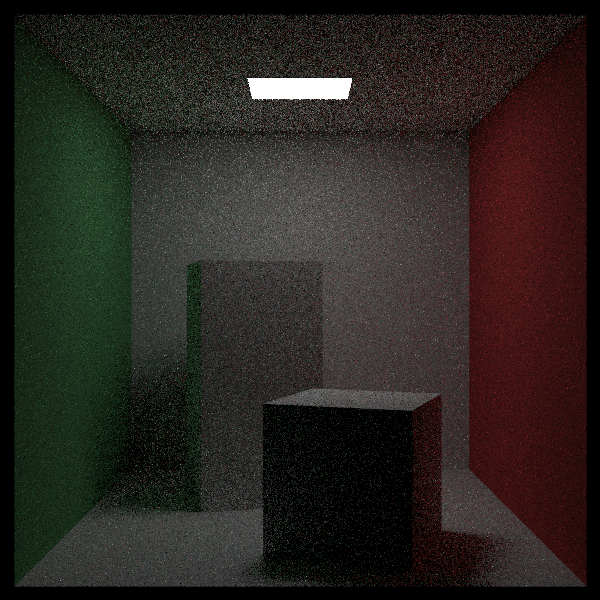
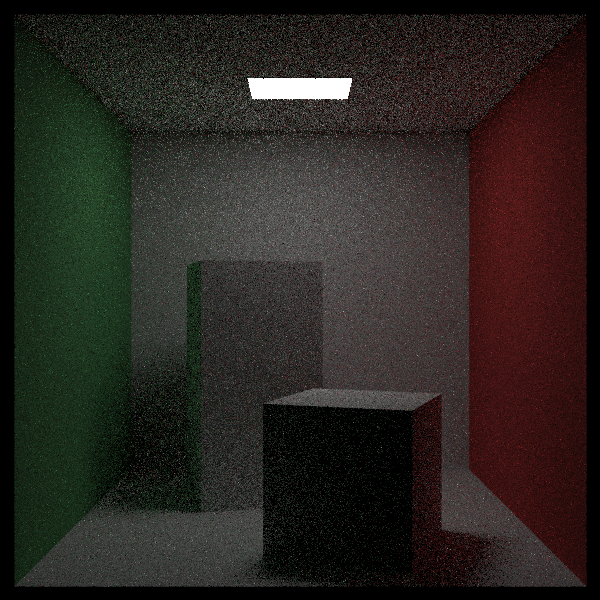
started to refactor the pdf and the materials

diff --git a/src/materials.rs b/src/materials.rs
@@ -1,5 +1,6 @@
 use std::f64::consts::PI;
 
+use crate::pdf::{Pdf, CosinePDF};
 use crate::{color::Color, onb::Onb};
 use crate::elements::HitRecord;
 use crate::ray::Ray;
@@ -16,10 +17,21 @@ pub enum Material {
     DiffuseLight(DiffuseLight),
 }
 
+//need to specify lifetime for the pdf, as there might be a mixed pdf in there with a reference to other pdfs
+pub struct ScatterRecord<'a> {
+    pub attenuation: Color,
+    pub pdf: Pdf<'a>,
+}
+
+pub struct ReflectRecord {
+    reflected: Vec3,
+    ray: Ray,
+}
+
 // trait for a material that scatters
 pub trait Scatterable {
-    fn scatter(&self, ray: &Ray, hit_record: &HitRecord, rng: &mut impl Rng) -> Option<(Option<Ray>, Option<f64>, Color)>;
-    fn scattering_pdf(&self, ray: &Ray, hit_record: &HitRecord, scattered_ray: &Ray) -> f64;
+    fn scatter(&self, ray: &Ray, hit_record: &HitRecord, rng: &mut impl Rng) -> Option<ScatterRecord>;
+    //fn scattering_pdf(&self, ray: &Ray, hit_record: &HitRecord, scattered_ray: &Ray) -> f64;
 }
 
 pub trait Emmits {
@@ -29,23 +41,21 @@ pub trait Emmits {
 // link the trait implementation to the materials
 // we now assume every material scatters, so each material needs a scatter function
 impl Scatterable for Material {
-    fn scatter(&self, ray: &Ray, hit_record: &HitRecord, rng: &mut impl Rng) -> Option<(Option<Ray>, Option<f64>, Color)> {
+    fn scatter(&self, ray: &Ray, hit_record: &HitRecord, rng: &mut impl Rng) -> Option<ScatterRecord> {
         match self {
             Material::Lambertian(l) => l.scatter(ray, hit_record, rng),
-            Material::Metal(m) => m.scatter(ray, hit_record, rng),
-            Material::Dielectric(d) => d.scatter(ray, hit_record, rng),
             _ =>  None,
         }
     }
 
-    fn scattering_pdf(&self, ray: &Ray, hit_record: &HitRecord, scattered_ray: &Ray) -> f64 {
-        match self {
-            Material::Lambertian(l) => l.scattering_pdf(ray, hit_record, scattered_ray),
-            Material::Metal(m) => m.scattering_pdf(ray, hit_record, scattered_ray),
-            Material::Dielectric(d) => d.scattering_pdf(ray, hit_record, scattered_ray),
-            _ =>  1.0,
-        }
-    }
+//    fn scattering_pdf(&self, ray: &Ray, hit_record: &HitRecord, scattered_ray: &Ray) -> f64 {
+//        match self {
+//            Material::Lambertian(l) => l.scattering_pdf(ray, hit_record, scattered_ray),
+//            Material::Metal(m) => m.scattering_pdf(ray, hit_record, scattered_ray),
+//            Material::Dielectric(d) => d.scattering_pdf(ray, hit_record, scattered_ray),
+//            _ =>  1.0,
+//        }
+//    }
 }
 
 impl Emmits for Material {
@@ -96,23 +106,22 @@ impl Lambertian {
 
 impl Scatterable for Lambertian {
     // create a scattered ray, randomized but with a lambartian distribution around the normal
-    fn scatter(&self, _ray: &Ray, hit_record: &HitRecord, rng: &mut impl Rng) -> Option<(Option<Ray>, Option<f64>, Color)> {
-        //lambertian distribution, assume the normal is normalized
+    fn scatter(&self, _ray: &Ray, hit_record: &HitRecord, rng: &mut impl Rng) -> Option<ScatterRecord> {
+        //lambertian pdf
 
-        let uvw: Onb = Onb::build_from_w(hit_record.normal);
-        let scatter_direction: Vec3 = uvw.local_vec(Vec3::random_cosine_direction(rng));
+        let scatter: ScatterRecord = ScatterRecord { 
+            attenuation: self.albedo, 
+            pdf: Pdf::CosinePDF(CosinePDF::new(hit_record.normal)) 
+        };
 
-        // create the new ray
-        let scattered = Ray::new(hit_record.point, scatter_direction);
-        let pdf: f64 = uvw.w().dot(&scattered.direction) / PI;
-
-        Some((Some(scattered), Some(pdf), self.albedo))
+        Some(scatter)
     }
 
-    fn scattering_pdf(&self, _ray: &Ray, hit_record: &HitRecord, scattered_ray: &Ray) -> f64 {
-        let cos_theta = hit_record.normal.dot(&scattered_ray.direction);
-        if cos_theta < 0.0 { 0.0 } else { cos_theta / PI }
-    }
+    // can we take this out?
+   // fn scattering_pdf(&self, _ray: &Ray, hit_record: &HitRecord, scattered_ray: &Ray) -> f64 {
+   //     let cos_theta = hit_record.normal.dot(&scattered_ray.direction);
+   //     if cos_theta < 0.0 { 0.0 } else { cos_theta / PI }
+   // }
 }
 
 // Metal material, with a fuzz factor. Metal reflects all rays in a predictable way (normal reflection)
@@ -135,24 +144,20 @@ fn reflect(v: &Vec3, n: &Vec3) -> Vec3 {
 
 impl Scatterable for Metal {
     // create a reflected ray
-    fn scatter(&self, ray: &Ray, hit_record: &HitRecord, rng: &mut impl Rng) -> Option<(Option<Ray>, Option<f64>, Color)> {
-        // get the direction of the reflected ray, and add a fuzz factor * a random unit vector
-        let new_direction = reflect(&ray.direction.normalized(), &hit_record.normal)
-            + Vec3::new_random_unit_vector(rng) * self.fuzz;
+    fn scatter(&self, ray: &Ray, hit_record: &HitRecord, rng: &mut impl Rng) -> Option<ScatterRecord> {
+            // get the direction of the reflected ray, and add a fuzz factor * a random unit vector
+          //  let new_direction = reflect(&ray.direction.normalized(), &hit_record.normal)
+          //      + Vec3::new_random_unit_vector(rng) * self.fuzz;
 
-        if hit_record.normal.dot(&new_direction) > 0.0 {
-            // the reflected ray, including fuzz unit sphere, is outside the material, so return a reflected ray
-            let reflected = Ray::new(hit_record.point, new_direction);
-            Some((Some(reflected), Some(1.0), self.albedo))
-        } else {
-            // return no ray, as the ray is absorbed by the material (due to fuzz factor)
-            Some((None, None, self.albedo))
-        }
-    }
-
-    fn scattering_pdf(&self, _ray: &Ray, hit_record: &HitRecord, scattered_ray: &Ray) -> f64 {
-        let cos_theta = hit_record.normal.dot(&scattered_ray.direction);
-        if cos_theta < 0.0 { 0.0 } else { cos_theta / PI }
+        //    if hit_record.normal.dot(&new_direction) > 0.0 {
+                // the reflected ray, including fuzz unit sphere, is outside the material, so return a reflected ray
+         //       let reflected = Ray::new(hit_record.point, new_direction);
+         //       Some((Some(reflected), Some(1.0), self.albedo))
+        //    } else {
+                // return no ray, as the ray is absorbed by the material (due to fuzz factor)
+        //        Some((None, None, self.albedo))
+        //    }
+        None
     }
 }
 
@@ -191,8 +196,9 @@ impl Dielectric {
 
 // source: Ray tracing in one Weekend
 impl Scatterable for Dielectric {
-    fn scatter(&self, ray: &Ray, hit_record: &HitRecord, rng: &mut impl Rng) -> Option<(Option<Ray>, Option<f64>, Color)> {
+    fn scatter(&self, ray: &Ray, hit_record: &HitRecord, rng: &mut impl Rng) -> Option<ScatterRecord> {
         //let mut rng = rand::thread_rng();
+        /* 
         let albedo: Color = Color::new(1.0, 1.0, 1.0); // a glass material does not absorb any color/light so the albedo is 1.0
         let refraction_ratio: f64 = if hit_record.front_face { 1.0 / self.index_of_refraction } else { self.index_of_refraction };
         let unit_direction: Vec3 = ray.direction.normalized(); // this should already be normalized, so we could remove this .normalize
@@ -212,11 +218,8 @@ impl Scatterable for Dielectric {
             let refracted_ray: Ray = Ray::new(hit_record.point, direction);
             Some((Some(refracted_ray), Some(1.0), albedo))
         }
-    }
-
-    fn scattering_pdf(&self, _ray: &Ray, hit_record: &HitRecord, scattered_ray: &Ray) -> f64 {
-        let cos_theta = hit_record.normal.dot(&scattered_ray.direction);
-        if cos_theta < 0.0 { 0.0 } else { cos_theta / PI }
+        */
+        None
     }
     
 }

diff --git a/src/lib.rs b/src/lib.rs
@@ -119,7 +119,7 @@ pub fn render_line(
 ) {
     let mut rng: SmallRng = SmallRng::seed_from_u64(y as u64);
 
-    for x in 0..config.img_width as usize {
+    for (x, band_item) in band.iter_mut().enumerate().take(config.img_width as usize) {
         // start with black color
         let mut color: Color = Color::new(0.0, 0.0, 0.0);
 
@@ -142,7 +142,7 @@ pub fn render_line(
         }
 
         // set pixel color, but first divide by the number of samples to get the average and return
-        band[x] = color
+        *band_item = color
             .divide_by_samples(config.samples)
             .clamp()
             .linear_to_gamma(2.2);
@@ -189,37 +189,36 @@ fn ray_color(
             }
 
             // we see if we get a scatter from the material
-            if let Some((Some(_scattered), Some(_pdf_val), attenuation)) = hit.material.scatter(ray, &hit, rng) {
+            if let Some(scatter) = hit.material.scatter(ray, &hit, rng) {
 
                 //  scattered rays (we assume every object has scattered rays, although in some materials (like metal) its actually a reflected or refracted (glass) ray)
 
                 let light_pdf: Pdf = Pdf::HittablePDF(HittablePDF::new(hit.point, lights[0]));
-                let cosine_pdf: Pdf = Pdf::CosinePDF(CosinePDF::new(hit.normal));
-                let mixed_pdf: Pdf = Pdf::MixedPDF(MixedPDF::new(hit.point, light_pdf, cosine_pdf));
+                //let cosine_pdf: Pdf = Pdf::CosinePDF(CosinePDF::new(hit.normal));
+                let mixed_pdf: Pdf = Pdf::MixedPDF(MixedPDF::new(hit.point, &light_pdf, &scatter.pdf));
 
                 // generate the direction for the new scattered ray based on the PDF
-                let scattered = Ray::new(hit.point, mixed_pdf.generate(rng));
+                let scattered_ray = Ray::new(hit.point, mixed_pdf.generate(rng));
 
                 // get the pdf value
-                let pdf_val = mixed_pdf.value(scattered.direction);
-
+                let pdf_val = mixed_pdf.value(scattered_ray.direction);
 
                 // there is a scattered ray, so lets get the color of that ray
                 // call the ray_color function again, now with the reflected ray but decrease the depth by 1 so that we dont run into an infinite loop
                 let target_color: Color =
-                    ray_color(bhv_tree, lights, &scattered, depth - 1, rng, follow);
+                    ray_color(bhv_tree, lights, &scattered_ray, depth - 1, rng, follow);
 
                 // get the pdf for that spot on that material
                 let scattering_pdf: f64 =
-                    hit.material.scattering_pdf(ray, &hit, &scattered);
+                    scatter.pdf.value(scattered_ray.direction);
 
                 // return the color, by applying the albedo to the color of the scattered ray (albedo is here defined the amount of color not absorbed)
                 // also apply the sample importance weighting
-                let color_from_scatter = (attenuation * target_color * scattering_pdf)/ pdf_val;
+                let color_from_scatter = (scatter.attenuation * target_color * scattering_pdf)/ pdf_val;
 
                 // if we track this pixel, print out extra info
                 if follow {
-                    log::info!("color_from_scatter: {:?}, target color: {:?}, attentuation: {:?}, scattering_pdf: {:?}, pdf_val: {:?}", color_from_scatter, target_color, attenuation, scattering_pdf, pdf_val);
+                    log::info!("color_from_scatter: {:?}, target color: {:?}, attentuation: {:?}, scattering_pdf: {:?}, pdf_val: {:?}", color_from_scatter, target_color, scatter.attenuation, scattering_pdf, pdf_val);
                  }
 
                  if color_from_scatter.has_nan() { log::error!("color has Nan!"); }

diff --git a/src/pdf.rs b/src/pdf.rs
@@ -6,11 +6,11 @@ use crate::{vec3::Vec3, onb::Onb, elements::{Hittable, Element}};
 
 // struct for Probability Density Functions 
 #[allow(dead_code)]
-pub enum Pdf {
+pub enum Pdf<'a> {
     SpherePDF(SpherePDF),
     CosinePDF(CosinePDF),
     HittablePDF(HittablePDF),
-    MixedPDF(MixedPDF),
+    MixedPDF(MixedPDF<'a>),
 }
 
 pub trait PDFTrait {
@@ -18,7 +18,7 @@ pub trait PDFTrait {
     fn value(&self, direction: Vec3) -> f64;
 }
 
-impl PDFTrait for Pdf {
+impl PDFTrait for Pdf<'_> {
     fn generate(&self, rng: &mut SmallRng) -> Vec3 {
         match self {
             Pdf::SpherePDF(s) => s.generate(rng),
@@ -38,14 +38,16 @@ impl PDFTrait for Pdf {
     }
 }
 
-pub struct MixedPDF {
+// contains two PDFs
+// need to specify lifetime so that references dont outlive the overal struct
+pub struct MixedPDF <'a>{
     pub origin: Vec3,
-    pub p1: Box<dyn PDFTrait>,
-    pub p2: Box<dyn PDFTrait>,
+    pub p1: &'a Pdf<'a>,
+    pub p2: &'a Pdf<'a>,
 }
 
 // PDF for a hittable object
-impl PDFTrait for MixedPDF {
+impl PDFTrait for MixedPDF<'_> {
     //combine the values from the two PDF's
     fn value(&self, direction: Vec3) -> f64 {
         0.5 * self.p1.value(direction) + 0.5 * self.p2.value(direction)
@@ -62,12 +64,13 @@ impl PDFTrait for MixedPDF {
     }
 }
 
-impl MixedPDF {
-    pub fn new(origin: Vec3, p1: impl PDFTrait + 'static, p2: impl PDFTrait + 'static) -> Self {
+impl MixedPDF<'_> {
+    // the lifetime of the mixed pdf p1 and p2 needs to be the same as the lifetime of the mixed pdf struct itself
+    pub fn new<'a>(origin: Vec3, p1: &'a Pdf, p2: &'a Pdf) -> MixedPDF<'a> {
         MixedPDF { 
             origin,
-            p1: Box::new(p1),
-            p2: Box::new(p2),
+            p1: p1,
+            p2: p2,
          }
     }
 }

diff --git a/src/vec3.rs b/src/vec3.rs
@@ -39,14 +39,11 @@ impl Vec3 {
     // creates a vector within a unit sphere (lenght < 1.0)
     pub fn new_random_unit_sphere(rng: &mut impl Rng) -> Self {
         let [x, y, z] = rand_distr::UnitSphere.sample(rng);
-        Self {x, y, z}  
-        
-        //loop {
-        //    let rv = Vec3::new_random(-1.0,1.0, rng);
-        //    if rv.length_squared() < 1.0 {
-        //        return rv
-        //    }
-        //}
+        Self {
+                x,
+                y,
+                z,
+            }  
     }
 
     // creates a random point on a unit disk (length <1.0, z = 0)
@@ -120,8 +117,9 @@ impl Vec3 {
     // fn distance
     // calculate the Euclidean distance between two points
     // d(p, w) = sqrt((px - wx)^2 + (py - wy)^2 + (pz - wz)^2)
+    // TODO add benchmark and replace with x * x to see if its 
     pub fn distance(&self, w: &Vec3) -> f64 {
-        let dx = f64::powf(self.x - w.x(), 2.0);
+        let dx = (self.x - w.x()).powf(2.0);
         let dy = f64::powf(self.y - w.y(), 2.0);
         let dz = f64::powf(self.z - w.z(), 2.0);
         (dx + dy + dz).sqrt()
